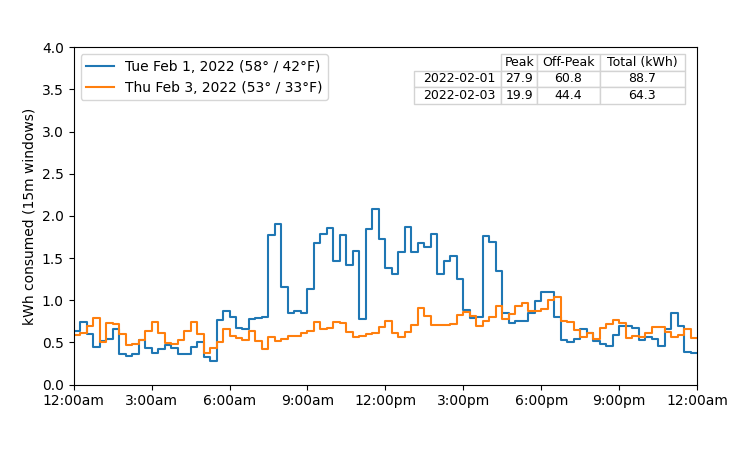
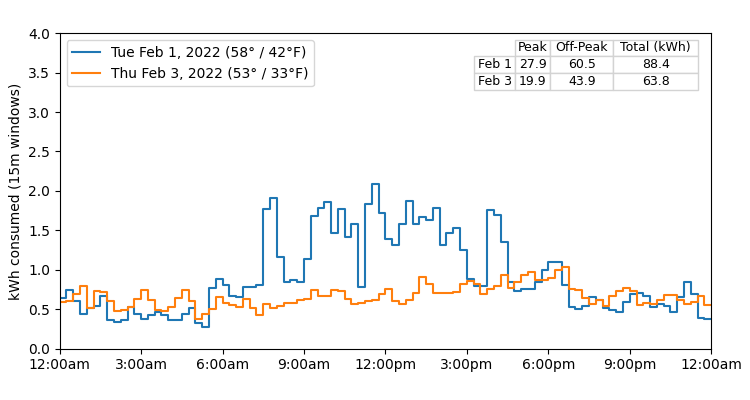
display monthly charts for post 2

diff --git a/Post2.py b/Post2.py
@@ -2,6 +2,8 @@ from fetch_NVenergy_usage import NVenergyUsage
 import numpy as np
 import pandas as pd
 from datetime import datetime, date, timedelta
+from dateutil.rrule import rrule, MONTHLY
+
 from typing import List
 
 
@@ -35,8 +37,8 @@ def plot_usage_chart(NVE: NVenergyUsage,
                      low_temp_list: List[float],
                      path: str):
         
-    fig, ax = plt.subplots(figsize = (7.5, 4.5))
-    fig.tight_layout(pad = 3.0)
+    fig, ax = plt.subplots(figsize = (7.5, 4))
+    fig.tight_layout(pad = 2.0)
         
     ax.set_xlim([0, 24])
     ax.set_ylim([0, 4])
@@ -48,10 +50,9 @@ def plot_usage_chart(NVE: NVenergyUsage,
     ax.xaxis.set_ticks(np.arange(0, 24+1, 3))
 
     peak = get_summer_TOU_peak()
-    print(peak)
+#    print(peak)
     
-    
-    table_rows = [str(d.date()) for d in date_list]
+    table_rows = [d.strftime("%b %-d") for d in date_list]
     table_columns = ["Peak", "Off-Peak", "Total (kWh)"]
     cells = []
 
@@ -61,6 +62,13 @@ def plot_usage_chart(NVE: NVenergyUsage,
         hours = [(t.hour + t.minute/60) for t in times]
         usage = list(usage)
 
+        # compute totals
+        total_usage = round(sum(usage), ndigits=1)
+        peak_usage = round(sum([u if peak.in_segment(t, False) else 0 for (t, u) in zip(times, usage)]), ndigits=1)
+        off_peak_usage = round(total_usage - peak_usage, ndigits = 1)
+        cells.append([peak_usage, off_peak_usage, total_usage])
+
+        # for the graph only (not computing totals), append one more 
         hours.append(24)
         usage.append(usage[-1])
         
@@ -68,39 +76,79 @@ def plot_usage_chart(NVE: NVenergyUsage,
 
         ax.step(hours, usage, where = "post", label = series_label)
         ax.legend(loc = "upper left")
+        
 
-        total_usage = round(sum(usage), ndigits=1)
-        peak_usage = round(sum([u if peak.in_segment(t, False) else 0 for (t, u) in zip(times, usage)]), ndigits=1)
-        off_peak_usage = round(total_usage - peak_usage, ndigits = 1)
-        cells.append([peak_usage, off_peak_usage, total_usage])
-
-    table = ax.table(cellText = cells,
-                     rowLabels = table_rows,
-                     colLabels = table_columns,
-                     cellLoc = "center",
-                     loc = "upper right")
-
+    table = ax.table(cellText = cells, rowLabels = table_rows, colLabels = table_columns,
+                     cellLoc = "center", loc = "upper right")
     table.auto_set_column_width(col=list(range(len(table_columns))))
     table.set_fontsize(9)
-
     cells = table.get_celld().values()
     for cell in cells:
         cell.set(edgecolor = "lightgray")
 
-                       
-    
-    
     plt.savefig(path)
+    plt.close()
+
+
+def print_monthly_table(NVE: NVenergyUsage, plan: RatePlan, start: datetime, end: datetime):
+    assert((start.date() >= NVE.first_date.date()) and (end.date() <= NVE.last_date.date()))
+
+    period_names = plan.get_period_names()
+
+    monthly_starts = list(rrule(freq=MONTHLY, bymonthday = 1, dtstart=start, until=end))
+    if(monthly_starts[0].date() != start.date()):
+        monthly_starts = [start] + monthly_starts
+
+    monthly_ends = list(rrule(freq=MONTHLY, bymonthday = -1, dtstart=start, until=end))
+    if(monthly_ends[-1].date() != end.date()):
+        monthly_ends.append(end)
+
+    #setting up the data frame
+    df = pd.DataFrame()
+    df["Month"] = [d.strftime("%b %Y") for d in monthly_starts]
+    for period_name in period_names:
+        df["Usage_" + period_name] = [0 for d in monthly_starts]
+        df["Cost_" + period_name]  = [0 for d in monthly_starts]
+
+    for ix, (month_start, month_end) in enumerate(zip(monthly_starts, monthly_ends)):
+        usage_stats = NVE.stats_by_period(plan, month_start, month_end)
+        for usage_stat in usage_stats:
+            df.loc[ix, "Usage_"+usage_stat.label] = round(usage_stat.kWh, ndigits = 1)
+            df.loc[ix, "Cost_"+usage_stat.label] = round(usage_stat.cost, ndigits = 2)
+
+    plt.rcParams.update({'font.size': 8})
+    fig, ax = plt.subplots()
+
+    print(df)
+    dfsum = df.sum(axis = 0)
+    print(dfsum)
+    
+
+    prev = None
+    plots = []
+    for period_name in period_names:
+        if(prev is None):
+            plots.append(ax.barh(df["Month"], df["Usage_"+period_name]))
+        else:
+            plots.append(ax.barh(df["Month"], df["Usage_"+period_name], left = prev))
+        prev = df["Usage_"+period_name]
+
+    print(plots[-1])
+    ax.bar_label(plots[-1], fmt = "%d", padding = 5)
+
+    ax.spines["right"].set_visible(False)
+    ax.spines["top"].set_visible(False)
+    plt.gca().invert_yaxis()
+    plt.show()
 
     
-  
 if __name__ == "__main__":
     NVE = NVenergyUsage()
 
-    date_lists = [[datetime(2022, 8, 15), datetime(2022, 8, 31)],  # high
+# first part of blog post -- plot the graphs for daily usage charts for specific days. 
+    date_lists = [[datetime(2022, 8, 15), datetime(2022, 8, 31)],  # high - 8/15/22
                   [datetime(2022, 2, 1), datetime(2022, 2, 3)],
                   [datetime(2022, 5, 9), datetime(2022, 5, 15)]] #high
-
 
     high_temp_lists = [[96, 109],
                       [58, 53],
@@ -108,19 +156,32 @@ if __name__ == "__main__":
 
     low_temp_lists = [[79, 85],
                       [42, 33],
-                      [54, 64]]
+                      [54, 64]]    
 
-    
     # source: https://www.wunderground.com/history/monthly/us/nv/henderson/KLAC/date/2022-8
-
-
     base_path = "post2/post2_usage_"
-
     for date_list, high_temps, low_temps in zip(date_lists, high_temp_lists, low_temp_lists):
         path = base_path + date_list[0].strftime("%b") + ".png"
         plot_usage_chart(NVE, date_list, high_temps, low_temps, path)
 
-        
+
+# second part of blog post -- get a table of monthly usage.
+    s = datetime(2021, 9, 1)
+    e = datetime(2022, 8, 31)
+
+    both_starts, both_usage = list(zip(*NVE.usage_series_for_days(s, e)))
+    print(sum(both_usage))
+
+    region = Region("NV")
+    plans = region.get_rate_plans()
+
+    for plan in plans:
+        print(plan.plan_name)
+        print_monthly_table(NVE, plan, s, e)
+       
+    
+
+    
 
 
         

diff --git a/fetch_NVenergy_usage.py b/fetch_NVenergy_usage.py
@@ -2,19 +2,24 @@ import numpy as np
 import pandas as pd
 from datetime import datetime, date, timedelta
 
+from dataclasses import dataclass
+
 from rate_series import RateSegment, RateSeries, RatePlan
 from fetch_seasons import Season
 from region import Region
 
 import pdb
 
+from typing import List
+
 USAGE_PATH = "usage_data/Sep21-Aug22energy.csv"
 
-
+@dataclass
 class UsageStats:
     label: str
     kWh: float
     cost: float
+    
 
 class NVenergyUsage:
     def __init__(self, usage_path = USAGE_PATH):
@@ -23,55 +28,58 @@ class NVenergyUsage:
         self.table["endDateTime"]=  self.table["endTime"].apply(lambda s: (datetime.strptime(s, "%m/%d/%y %H:%M")))
     
         self.table = self.table[["unit", "startDateTime", "endDateTime", "Usage"]]
+        self.first_date = min(self.table["startDateTime"])
+        self.last_date = max(self.table["startDateTime"])                     
 
     def print(self, n=96):
         print(self.table.head(n))
 
-    def usage_series_for_day(self, d: datetime, ratesegment = None):
+
+    def usage_series_for_days(self, start: datetime, end: datetime, ratesegment = None):
+        day_list = [start + timedelta(days = i) for i in range((end - start).days + 1)]
+        day_list = [day.date() for day in day_list]
+
         if ratesegment == None:
-            fil = self.table["startDateTime"].apply(lambda x: x.date() == d.date())
+            fil = self.table["startDateTime"].apply(lambda x: x.date() in day_list)
         else:
-            fil = self.table["startDateTime"].apply(lambda x: (x.date() == d.date() and ratesegment.in_segment(x)))            
+            fil = self.table["startDateTime"].apply(lambda x: (x.date() in day_list) and ratesegment.in_segment(x))
         filtered_table = self.table[fil]
         return zip(filtered_table["startDateTime"], filtered_table["Usage"])
 
-    def total_cost_for_days(self, rate_plan: RatePlan, start_date: date, end_date: date):
-        end_datetime = datetime(end_date.year, end_date.month, end_date.day)
-        start_datetime = datetime(start_date.year, start_date.month, start_date.day)
+    def usage_series_for_day(self, d: datetime, ratesegment = None):
+        return self.usage_series_for_days(d, d, ratesegment)
+                
+    def stats_by_period(self, rate_plan: RatePlan, start_date: datetime, end_date: datetime = None):
+        if(end_date == None): end_date = start_date
+
         day_list = [start_date + timedelta(days = i) for i in range((end_date - start_date).days + 1)]
+        day_list = [day.date() for day in day_list]
 
         fil = self.table["startDateTime"].apply(lambda x: x.date() in day_list)
         filtered_table = self.table[fil].copy()
-
         filtered_table["Segment"] = filtered_table["startDateTime"].apply(rate_plan.ratesegment_from_datetime)
-        filtered_table["SegmentLabel"] = [s.label for s in filtered_table["Segment"]]
+        segment_labels = set([s.label for s in filtered_table["Segment"]])
         filtered_table["Cost"] = [(u * r.rate) for u, r in zip(filtered_table["Usage"], filtered_table["Segment"])]
+        results = []
+        for segment_label in segment_labels:
+            usage = sum(u for (u, s) in zip(filtered_table["Usage"], filtered_table["Segment"]) if s.label == segment_label)
+            cost = sum(c for (c, s) in zip(filtered_table["Cost"], filtered_table["Segment"]) if s.label == segment_label)
+            results.append(UsageStats(label = segment_label, kWh = usage, cost = cost))
 
-        pd.set_option('display.max_rows', None)
-        pd.set_option('display.max_columns', None)
-    
-        grouped = filtered_table.groupby("SegmentLabel")
-        print(grouped.sum())
+        return results
         
-        return sum(filtered_table["Cost"])
-        
-
 if __name__ == "__main__":
     usage = NVenergyUsage()
-
     states = ["NV"]
 
     for state in states:
-        region = Region(state)
-        plans = region.get_rate_plans()
+        plans = Region(state).get_rate_plans()
 
         for plan in plans:
             print(plan)
-            d = datetime(2021, 9, 1).date()
-            d2 = datetime(2022, 8, 31).date()
-            print("State: " + state)
-            print("Plan: " + plan.plan_name)
-            print("Cost: " + str(usage.total_cost_for_days(plan, d, d2)))
+            d = datetime(2022, 8, 15)
+            print("State: " + state, "Plan: " + plan.plan_name)
+            print((usage.totals_for_days_by_period(plan, d)))
 
 
     

diff --git a/rate_series.py b/rate_series.py
@@ -119,7 +119,7 @@ class RatePlan:
             self.periods = self.periods.union(set(rs.get_period_names()))
 
             
-    def get_period_names():
+    def get_period_names(self):
         return list(self.periods)
 
     def series(self):
